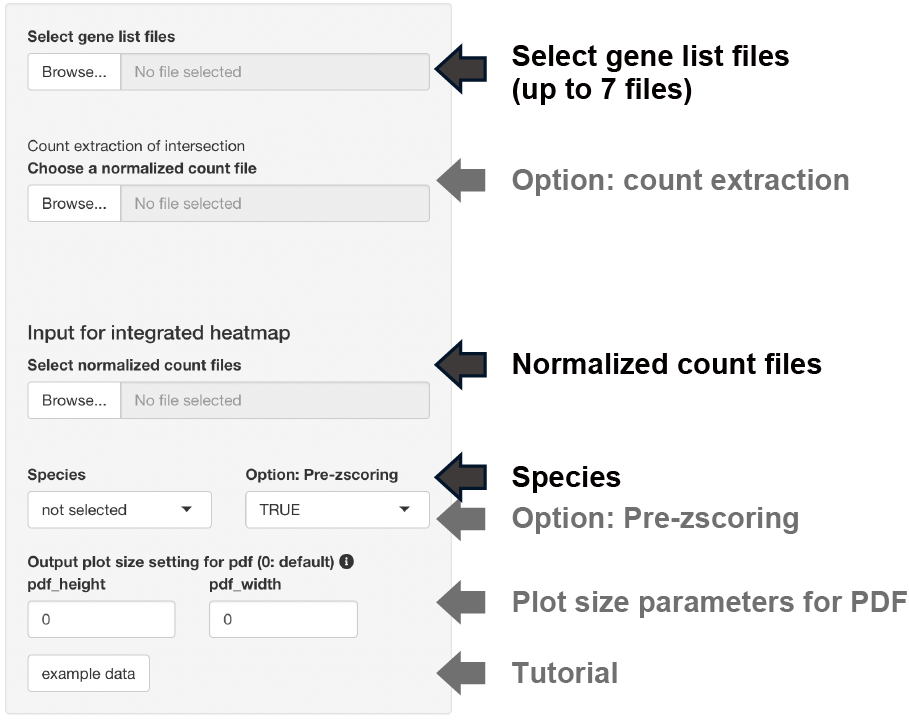
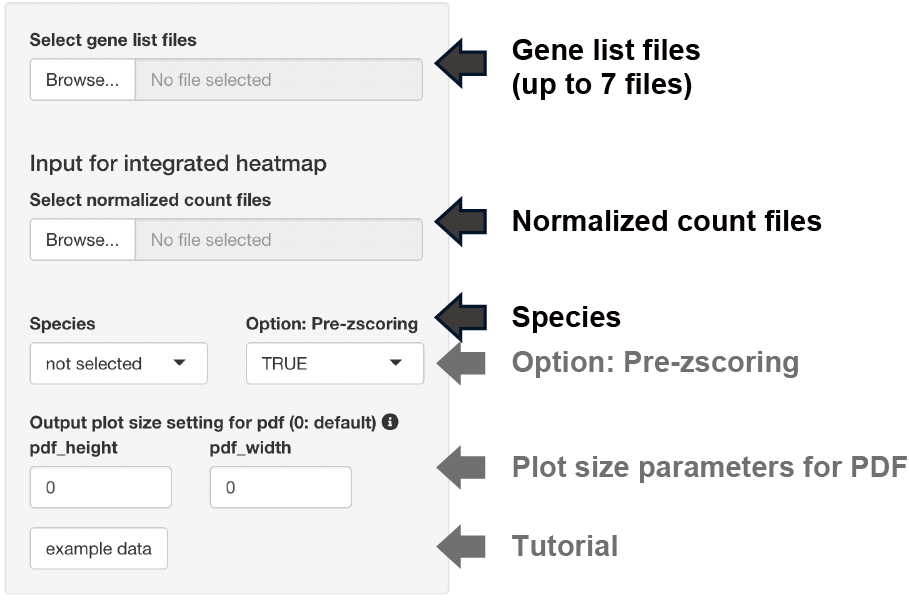
update

diff --git a/docs/index.html b/docs/index.html
@@ -246,7 +246,7 @@ div.tocify {
 
 <h1 class="title toc-ignore">RNAseqChef manual</h1>
 <h4 class="author">Kan Etoh</h4>
-<h4 class="date">22/07/26 10:28</h4>
+<h4 class="date">22/08/22 16:22</h4>
 
 </div>
 
@@ -817,36 +817,32 @@ style="width:50.0%" alt="venn setting" /><br></p>
 <div id="input-format-3" class="section level3">
 <h3>Input format</h3>
 <div id="遺伝子リスト" class="section level4">
-<h4>1. 遺伝子リスト</h4>
+<h4>遺伝子リスト</h4>
 <p>inputとなる遺伝子リストのフォーマットは以下の通りです。</p>
 <pre><code>- １列目は、遺伝子名
 - ２列目以降は、解析に影響しません
 - 最大アップロード数は７です。
 - ファイル名は、拡張子以外でピリオド「 . 」を使用しない</code></pre>
 <p>２列目以降は解析に影響しないため、カウントデータが含まれていても問題ありません。<br>
-<strong>最大７種類</strong>の遺伝子リストの共通部分、非共通部分を可視化、リストとして出力できます。<br><br></p>
-</div>
-<div id="option-カウントデータ" class="section level4">
-<h4>2. Option: カウントデータ</h4>
-<p>カウントデータから共通部分の遺伝子のみを抽出します。<br>
-inputとなるカウントデータのフォーマットは以下の通りです。</p>
-<pre><code>- Raw countデータではなく、normalized countデータを使用
-- ファイル名は、拡張子以外でピリオド「 . 」を使用しない</code></pre>
-<p><br></p>
+<strong>最大７種類</strong>の遺伝子リストの共通部分、非共通部分を可視化、リストとして出力できます。<br><br>
+<img src="www/venn_input.png" id="id" class="class" style="width:15.0%"
+alt="venn input" /><br><br></p>
 </div>
 <div id="複数のカウントデータ統合ヒートマップの作成"
 class="section level4">
-<h4>3. 複数のカウントデータ（統合ヒートマップの作成）</h4>
+<h4>複数のカウントデータ（統合ヒートマップの作成）</h4>
 <p>複数のカウントデータを統合して、ベン図により同定した遺伝子セットの発現を可視化します。<br>
 inputとなるカウントデータのフォーマットは以下の通りです。</p>
 <pre><code>- Raw countデータではなく、normalized countデータを使用
 - ファイル名は、拡張子以外でピリオド「 . 」を使用しない</code></pre>
-<p><br></p>
-<hr />
+<p><br> <img src="www/input_format1.png" id="id" class="class"
+style="width:50.0%" alt="venn input" /><br><br> —</p>
 </div>
 <div id="option-pre-zscoring" class="section level4">
 <h4>Option: pre-zscoring</h4>
-<p>pre-zscoringは、複数のカウントデータを統合する前に、zscore化します<br></p>
+<p>pre-zscoringは、複数のカウントデータを統合する前に、zscore化します。<br><br>
+<img src="www/pre-zscoring.png" id="id" class="class"
+style="width:50.0%" alt="venn input" /><br><br></p>
 <hr />
 </div>
 </div>
@@ -857,8 +853,6 @@ inputとなるカウントデータのフォーマットは以下の通りです
 <h3>Input gene list</h3>
 <p>アップロードした遺伝子リストから作成したベン図を表示します。<br>
 アップロードしたリストに含まれる全遺伝子に関して、ベン図のどのグループに所属するかをリストとして表示します。<br>
-カウントデータをアップロードした場合、「intersection tableのgene
-list」からグループを選択することで、選択したグループの遺伝子をカウントデータから抽出することができます。<br><br>
 <strong>データの見方について</strong><br>
 ベン図で表示されるグループは、アップロードした遺伝子リストのファイル名を元に作成されます（具体例の場合、example1.txtとexample2.txtをアップロードしています）。<br>
 共通部分はコロン「 :
@@ -1316,13 +1310,13 @@ You may contact the author of this code, Kan Etoh, at &lt;kaneto@kumamoto-u.ac.j
 <div id="session-info" class="section level1">
 <h1>Session info</h1>
 <pre class="r"><code> sessionInfo()</code></pre>
-<pre><code>## R version 4.2.0 (2022-04-22)
+<pre><code>## R version 4.1.3 (2022-03-10)
 ## Platform: x86_64-apple-darwin17.0 (64-bit)
 ## Running under: macOS Big Sur/Monterey 10.16
 ## 
 ## Matrix products: default
-## BLAS:   /Library/Frameworks/R.framework/Versions/4.2/Resources/lib/libRblas.0.dylib
-## LAPACK: /Library/Frameworks/R.framework/Versions/4.2/Resources/lib/libRlapack.dylib
+## BLAS:   /Library/Frameworks/R.framework/Versions/4.1/Resources/lib/libRblas.0.dylib
+## LAPACK: /Library/Frameworks/R.framework/Versions/4.1/Resources/lib/libRlapack.dylib
 ## 
 ## locale:
 ## [1] ja_JP.UTF-8/ja_JP.UTF-8/ja_JP.UTF-8/C/ja_JP.UTF-8/ja_JP.UTF-8
@@ -1332,44 +1326,44 @@ You may contact the author of this code, Kan Etoh, at &lt;kaneto@kumamoto-u.ac.j
 ##  [8] datasets  methods   base     
 ## 
 ## other attached packages:
-##  [1] umap_0.2.8.0                dorothea_1.8.0             
+##  [1] umap_0.2.8.0                dorothea_1.6.0             
 ##  [3] clusterProfiler.dplyr_0.0.2 BiocManager_1.30.18        
 ##  [5] shinyjs_2.1.0               plotly_4.10.0              
-##  [7] shinyBS_0.61.1              ComplexHeatmap_2.12.0      
-##  [9] genefilter_1.78.0           msigdbr_7.5.1              
-## [11] DOSE_3.22.0                 enrichplot_1.16.1          
-## [13] clusterProfiler_4.4.4       org.Xl.eg.db_3.15.0        
-## [15] org.Ce.eg.db_3.15.0         org.Dm.eg.db_3.15.0        
-## [17] org.Rn.eg.db_3.15.0         org.Mm.eg.db_3.15.0        
-## [19] org.Hs.eg.db_3.15.0         AnnotationDbi_1.58.0       
-## [21] DEGreport_1.32.0            qvalue_2.28.0              
-## [23] IHW_1.24.0                  edgeR_3.38.1               
-## [25] limma_3.52.2                ggnewscale_0.4.7           
-## [27] EBSeq_1.36.0                testthat_3.1.4             
+##  [7] shinyBS_0.61.1              ComplexHeatmap_2.10.0      
+##  [9] genefilter_1.76.0           msigdbr_7.5.1              
+## [11] DOSE_3.20.1                 enrichplot_1.14.2          
+## [13] clusterProfiler_4.2.2       org.Xl.eg.db_3.14.0        
+## [15] org.Ce.eg.db_3.14.0         org.Dm.eg.db_3.14.0        
+## [17] org.Rn.eg.db_3.14.0         org.Mm.eg.db_3.14.0        
+## [19] org.Hs.eg.db_3.14.0         AnnotationDbi_1.56.2       
+## [21] DEGreport_1.30.3            qvalue_2.26.0              
+## [23] IHW_1.22.0                  edgeR_3.36.0               
+## [25] limma_3.50.3                ggnewscale_0.4.7           
+## [27] EBSeq_1.34.0                testthat_3.1.4             
 ## [29] gplots_3.1.3                blockmodeling_1.0.5        
-## [31] DESeq2_1.36.0               SummarizedExperiment_1.26.1
-## [33] Biobase_2.56.0              MatrixGenerics_1.8.1       
-## [35] matrixStats_0.62.0          GenomicRanges_1.48.0       
-## [37] GenomeInfoDb_1.32.2         IRanges_2.30.0             
-## [39] S4Vectors_0.34.0            BiocGenerics_0.42.0        
+## [31] DESeq2_1.34.0               SummarizedExperiment_1.24.0
+## [33] Biobase_2.54.0              MatrixGenerics_1.6.0       
+## [35] matrixStats_0.62.0          GenomicRanges_1.46.1       
+## [37] GenomeInfoDb_1.30.1         IRanges_2.28.0             
+## [39] S4Vectors_0.32.4            BiocGenerics_0.40.0        
 ## [41] cowplot_1.1.1               gridExtra_2.3              
 ## [43] ggplotify_0.1.0             ggdendro_0.1.23            
-## [45] ggrepel_0.9.1               venn_1.11                  
+## [45] ggrepel_0.9.1               venn_1.10                  
 ## [47] ggpubr_0.4.0                forcats_0.5.1              
 ## [49] stringr_1.4.0               dplyr_1.0.9                
 ## [51] purrr_0.3.4                 readr_2.1.2                
 ## [53] tidyr_1.2.0                 tibble_3.1.7               
 ## [55] ggplot2_3.3.6               tidyverse_1.3.1            
 ## [57] multcomp_1.4-19             TH.data_1.1-1              
-## [59] MASS_7.3-57                 survival_3.3-1             
+## [59] MASS_7.3-55                 survival_3.2-13            
 ## [61] mvtnorm_1.1-3               rstatix_0.7.0              
 ## [63] gdata_2.18.0.1              DT_0.23                    
 ## [65] shiny_1.7.1                
 ## 
 ## loaded via a namespace (and not attached):
 ##   [1] bit64_4.0.5                 knitr_1.39                 
-##   [3] DelayedArray_0.22.0         data.table_1.14.2          
-##   [5] KEGGREST_1.36.2             RCurl_1.98-1.7             
+##   [3] DelayedArray_0.20.0         data.table_1.14.2          
+##   [5] KEGGREST_1.34.0             RCurl_1.98-1.6             
 ##   [7] doParallel_1.0.17           generics_0.1.2             
 ##   [9] RSQLite_2.2.14              shadowtext_0.1.2           
 ##  [11] bit_4.0.4                   tzdb_0.3.0                 
@@ -1379,70 +1373,70 @@ You may contact the author of this code, Kan Etoh, at &lt;kaneto@kumamoto-u.ac.j
 ##  [19] hms_1.1.1                   jquerylib_0.1.4            
 ##  [21] babelgene_22.3              evaluate_0.15              
 ##  [23] promises_1.2.0.1            fansi_1.0.3                
-##  [25] caTools_1.18.2              dbplyr_2.2.1               
-##  [27] readxl_1.4.0                igraph_1.3.2               
-##  [29] DBI_1.1.3                   geneplotter_1.74.0         
+##  [25] caTools_1.18.2              dbplyr_2.1.1               
+##  [27] readxl_1.4.0                igraph_1.3.1               
+##  [29] DBI_1.1.2                   geneplotter_1.72.0         
 ##  [31] htmlwidgets_1.5.4           reshape_0.8.9              
 ##  [33] ellipsis_0.3.2              RSpectra_0.16-1            
-##  [35] backports_1.4.1             annotate_1.74.0            
+##  [35] backports_1.4.1             annotate_1.72.0            
 ##  [37] vctrs_0.4.1                 abind_1.4-5                
 ##  [39] cachem_1.0.6                withr_2.5.0                
 ##  [41] ggforce_0.3.3               lasso2_1.2-22              
-##  [43] treeio_1.20.0               fdrtool_1.2.17             
-##  [45] mnormt_2.1.0                cluster_2.1.3              
+##  [43] treeio_1.18.1               fdrtool_1.2.17             
+##  [45] mnormt_2.1.0                cluster_2.1.2              
 ##  [47] lazyeval_0.2.2              ape_5.6-2                  
 ##  [49] crayon_1.5.1                labeling_0.4.2             
 ##  [51] pkgconfig_2.0.3             slam_0.1-50                
-##  [53] tweenr_1.0.2                nlme_3.1-158               
-##  [55] rlang_1.0.4                 lifecycle_1.0.1            
-##  [57] sandwich_3.0-2              downloader_0.4             
+##  [53] tweenr_1.0.2                nlme_3.1-155               
+##  [55] rlang_1.0.2                 lifecycle_1.0.1            
+##  [57] sandwich_3.0-1              downloader_0.4             
 ##  [59] modelr_0.1.8                cellranger_1.1.0           
-##  [61] polyclip_1.10-0             Matrix_1.4-1               
-##  [63] aplot_0.1.6                 carData_3.0-5              
-##  [65] lpsymphony_1.24.0           zoo_1.8-10                 
+##  [61] polyclip_1.10-0             Matrix_1.4-0               
+##  [63] aplot_0.1.4                 carData_3.0-5              
+##  [65] lpsymphony_1.22.0           zoo_1.8-10                 
 ##  [67] reprex_2.0.1                GlobalOptions_0.1.2        
 ##  [69] png_0.1-7                   viridisLite_0.4.0          
 ##  [71] rjson_0.2.21                bitops_1.0-7               
-##  [73] ConsensusClusterPlus_1.60.0 KernSmooth_2.23-20         
-##  [75] Biostrings_2.64.0           blob_1.2.3                 
+##  [73] ConsensusClusterPlus_1.58.0 KernSmooth_2.23-20         
+##  [75] Biostrings_2.62.0           blob_1.2.3                 
 ##  [77] shape_1.4.6                 gridGraphics_0.5-1         
 ##  [79] ggsignif_0.6.3              scales_1.2.0               
 ##  [81] memoise_2.0.1               magrittr_2.0.3             
-##  [83] plyr_1.8.7                  zlibbioc_1.42.0            
-##  [85] scatterpie_0.1.7            compiler_4.2.0             
-##  [87] RColorBrewer_1.1-3          clue_0.3-61                
-##  [89] cli_3.3.0                   XVector_0.36.0             
+##  [83] plyr_1.8.7                  zlibbioc_1.40.0            
+##  [85] scatterpie_0.1.7            compiler_4.1.3             
+##  [87] RColorBrewer_1.1-3          clue_0.3-60                
+##  [89] cli_3.3.0                   XVector_0.34.0             
 ##  [91] patchwork_1.1.1             tidyselect_1.1.2           
-##  [93] stringi_1.7.8               highr_0.9                  
-##  [95] yaml_2.3.5                  GOSemSim_2.22.0            
+##  [93] stringi_1.7.6               highr_0.9                  
+##  [95] yaml_2.3.5                  GOSemSim_2.20.0            
 ##  [97] askpass_1.1                 locfit_1.5-9.5             
-##  [99] bcellViper_1.32.0           sass_0.4.1                 
-## [101] fastmatch_1.1-3             parallel_4.2.0             
+##  [99] bcellViper_1.30.0           sass_0.4.1                 
+## [101] fastmatch_1.1-3             parallel_4.1.3             
 ## [103] circlize_0.4.15             rstudioapi_0.13            
 ## [105] foreach_1.5.2               logging_0.10-108           
 ## [107] farver_2.1.0                ggraph_2.0.5               
 ## [109] digest_0.6.29               Rcpp_1.0.8.3               
-## [111] car_3.1-0                   broom_1.0.0                
+## [111] car_3.0-13                  broom_0.8.0                
 ## [113] later_1.3.0                 httr_1.4.3                 
 ## [115] Nozzle.R1_1.1-1.1           psych_2.2.5                
 ## [117] colorspace_2.0-3            reticulate_1.25            
 ## [119] rvest_1.0.2                 brio_1.1.3                 
-## [121] XML_3.99-0.10               fs_1.5.2                   
-## [123] splines_4.2.0               yulab.utils_0.0.5          
+## [121] XML_3.99-0.9                fs_1.5.2                   
+## [123] splines_4.1.3               yulab.utils_0.0.4          
 ## [125] tidytree_0.3.9              graphlayouts_0.8.0         
-## [127] xtable_1.8-4                ggtree_3.4.0               
+## [127] xtable_1.8-4                ggtree_3.2.1               
 ## [129] jsonlite_1.8.0              tidygraph_1.2.1            
 ## [131] ggfun_0.0.6                 R6_2.5.1                   
 ## [133] pillar_1.7.0                htmltools_0.5.2            
 ## [135] mime_0.12                   glue_1.6.2                 
-## [137] fastmap_1.1.0               BiocParallel_1.30.3        
-## [139] codetools_0.2-18            fgsea_1.22.0               
+## [137] fastmap_1.1.0               BiocParallel_1.28.3        
+## [139] codetools_0.2-18            fgsea_1.20.0               
 ## [141] utf8_1.2.2                  lattice_0.20-45            
-## [143] bslib_0.3.1                 gtools_3.9.2.2             
-## [145] openssl_2.0.2               GO.db_3.15.0               
-## [147] admisc_0.29                 rmarkdown_2.14             
+## [143] bslib_0.3.1                 gtools_3.9.2               
+## [145] openssl_2.0.1               GO.db_3.14.0               
+## [147] admisc_0.27                 rmarkdown_2.14             
 ## [149] munsell_0.5.0               DO.db_2.9                  
-## [151] GetoptLong_1.0.5            GenomeInfoDbData_1.2.8     
+## [151] GetoptLong_1.0.5            GenomeInfoDbData_1.2.7     
 ## [153] iterators_1.0.14            haven_2.5.0                
 ## [155] reshape2_1.4.4              gtable_0.3.0</code></pre>
 </div>
